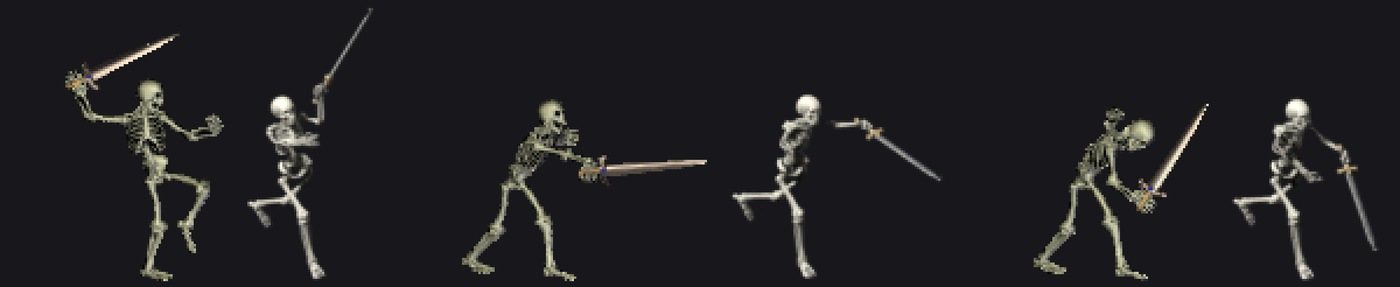
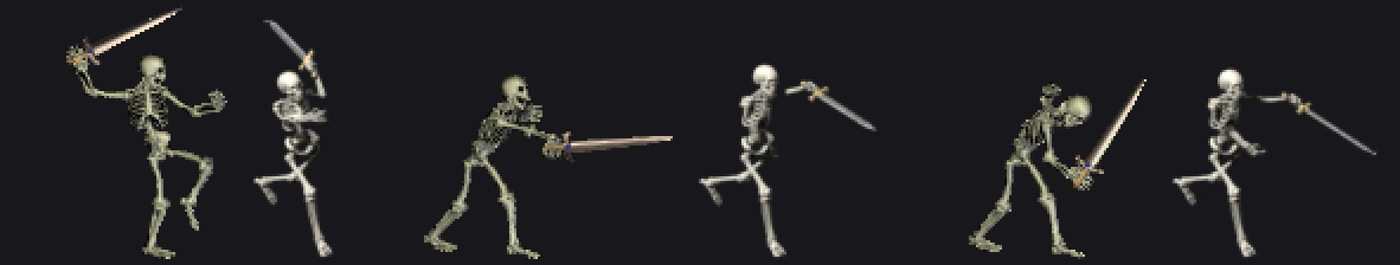
Regenerate the figures from the current renders, and illustrate the walk and the turn

diff --git a/content/posts/what-holds-the-weapon.md b/content/posts/what-holds-the-weapon.md
@@ -262,6 +262,11 @@ the legs again on top of it; the two compounded into a **126° split** and the
 skeleton scissored in place instead of walking. Stating the walk's legs
 absolutely and subtracting the stance decouples them — 47°.
 
+<figure>
+  <img src="/images/vcmi/walk-cycle.jpg" alt="The eight-frame walk cycle, original above and ours below">
+  <figcaption>The walk cycle, original above and ours below. Before this the two strides compounded into a 126° split and the skeleton scissored in place.</figcaption>
+</figure>
+
 Worse, the stance carries a 100° inward roll on the weapon arm, which is what
 keeps the blade on the sword's own side of the body. Anything layered on top has
 its idea of "forward" rotated by that much, so the forward attack's strike hung
@@ -314,6 +319,11 @@ body's shoulder line rotates too**. It could not tell a yaw from a fall. This is
 the third time in this post that a measurement was true and the conclusion drawn
 from it was wrong, and the pattern is the same each time: the number described
 something narrower than the thing I cared about.
+
+<figure>
+  <img src="/images/vcmi/turn-pivot.jpg" alt="Both frames of the turn, original and ours">
+  <figcaption>Both frames of the turn, original left of each pair. The creature pivots from its three-quarter view to face the viewer, sword raised.</figcaption>
+</figure>
 
 A bone's axes are not the world's. Turning a creature is a rotation of the whole
 model about the world vertical — a property of the group, not of any bone. Groups
